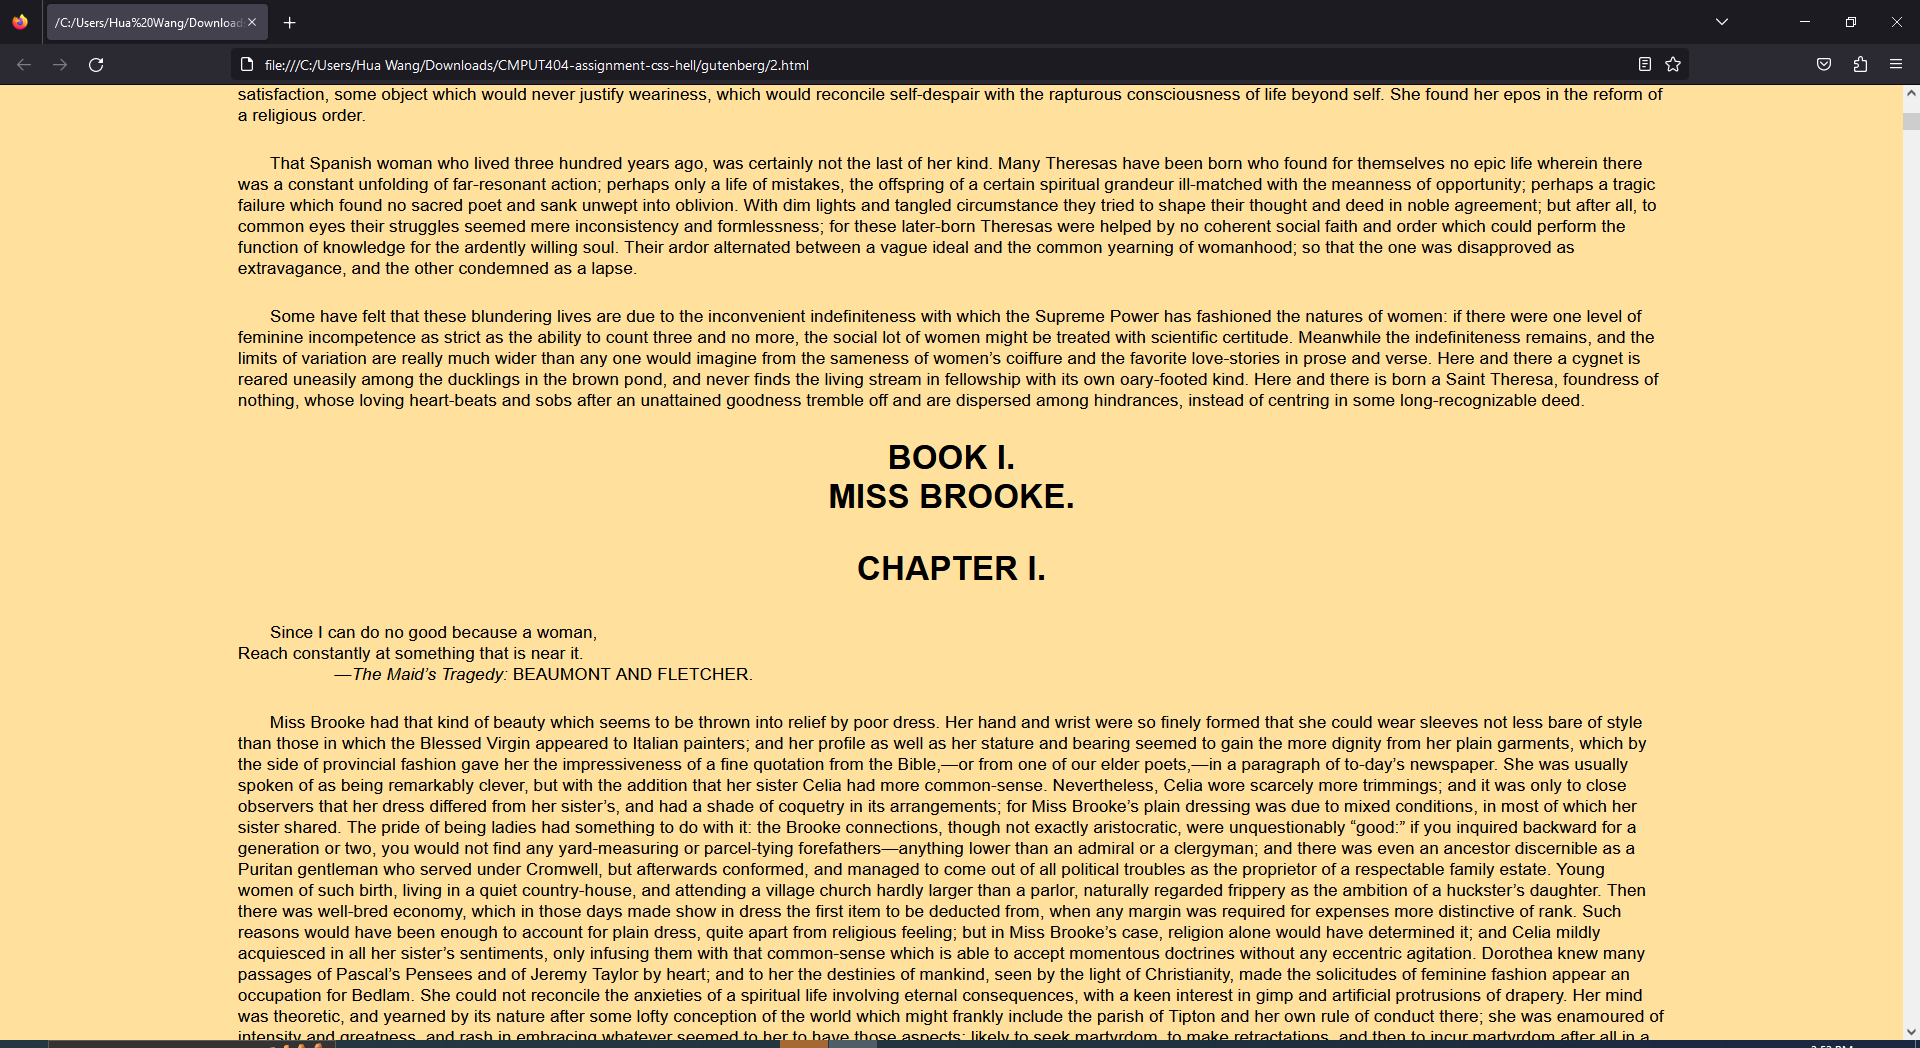
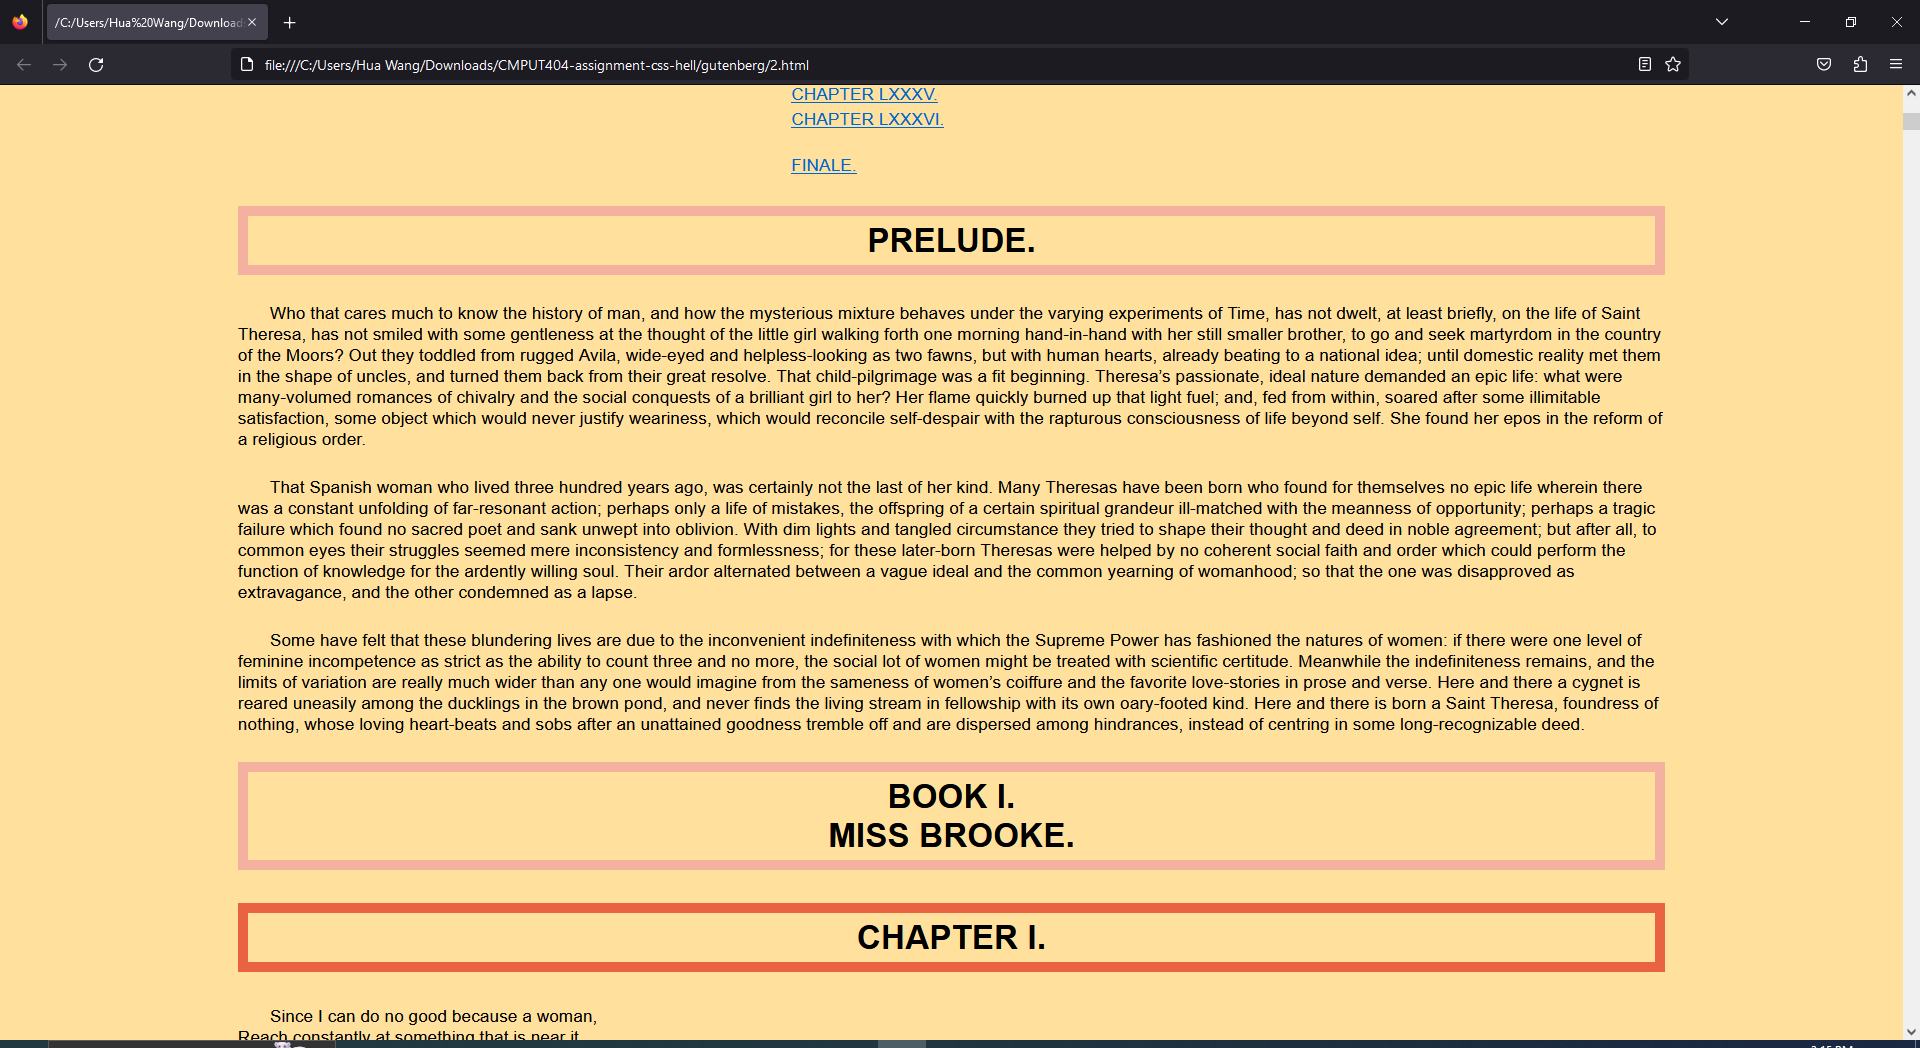
update

diff --git a/homepage/css/good.css b/homepage/css/good.css
@@ -1,5 +1,7 @@
 body {
-    background-color: rgb(158, 240, 175);
+    background-image: url("background.jpg");
+    background-repeat: no-repeat;
+    background-size: 100% 100%;
     font-family: "Courier New", Courier, monospace;
   }
   
@@ -16,8 +18,8 @@ body {
   }
   
   .box1, .box2 {
+    background-color: #e7e68a;
     float: left;
-    background-color: rgb(255, 255, 255);
     border: solid;
     border-radius: 25px;
     border-width: 3px;
@@ -33,7 +35,7 @@ body {
 
 
   .box3 {
-    background-color: rgb(255, 255, 255);
+    background-color: #e7e68a;
     border: solid;
     border-width: 3px;
     border-radius: 25px;

diff --git a/gutenberg/css/style.css b/gutenberg/css/style.css
@@ -27,7 +27,16 @@ h1 {
     font-size: 30pt;
 }
 
-h2, h3{
+h2{
+    border: 10px solid #f5b1a0;
+    padding: 5px;
+    text-align: center;
+    font-size: 25pt;
+}
+
+h3{
+    border: 10px solid #e96342;
+    padding: 5px;
     text-align: center;
     font-size: 25pt;
 }
